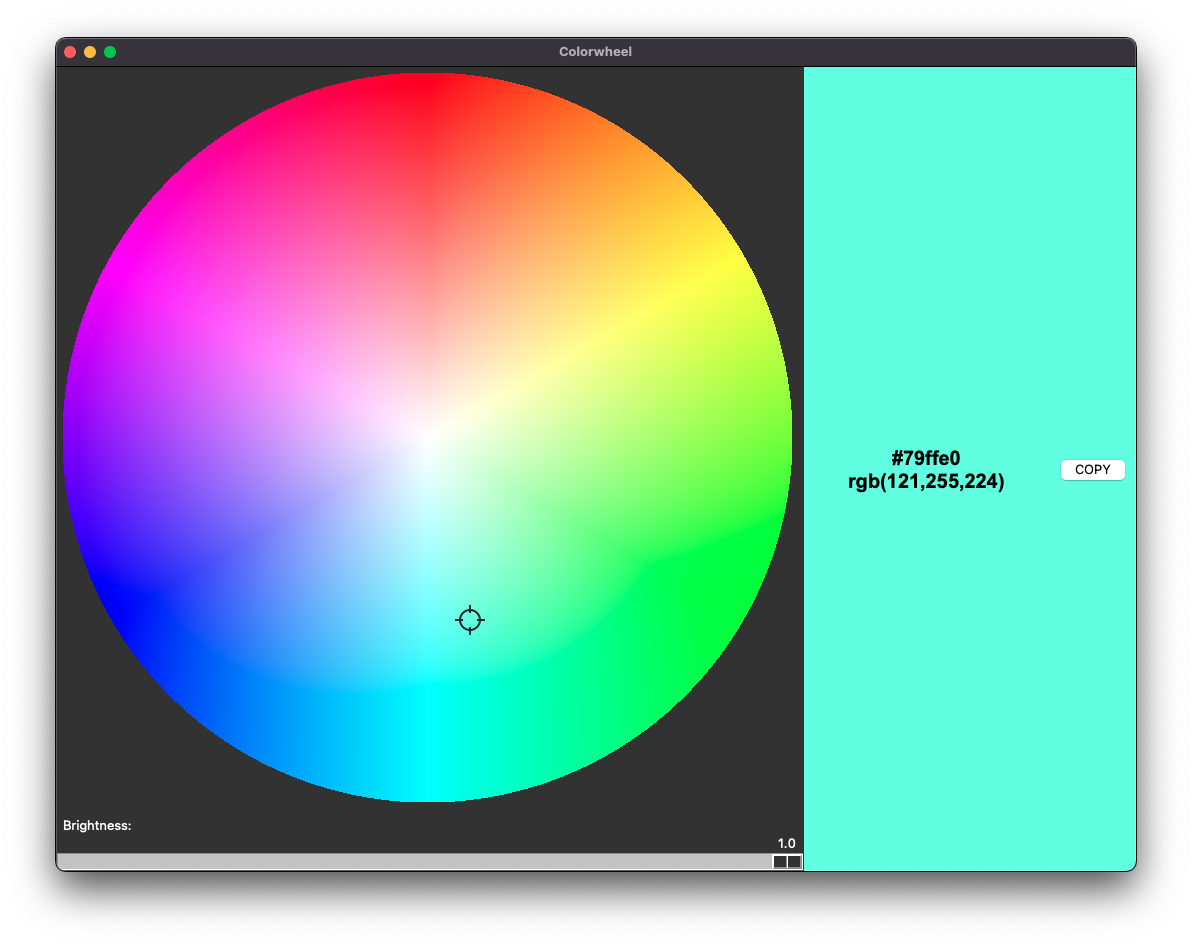
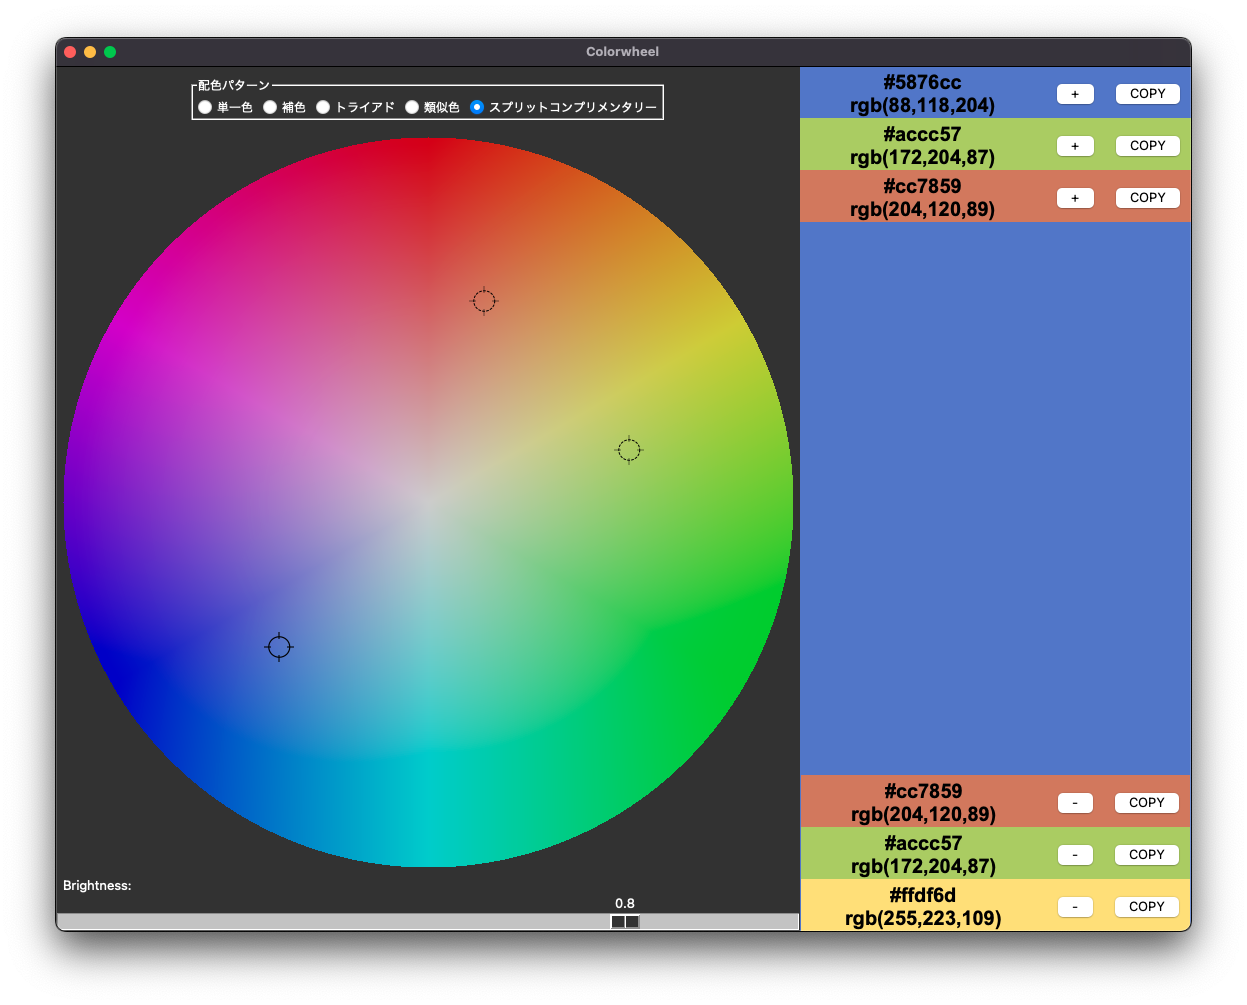
docs: 機能追加にあわせて、スクリーンショットと使い方を更新

diff --git a/README.ja.md b/README.ja.md
@@ -10,7 +10,20 @@
 poetry run python3 color_wheel.py
 ~~~
 
-照準型のカーソルをドラッグすると該当箇所の色情報を右側の領域に表示します。
+- 照準型のカーソルをドラッグまたはダブルクリックすると該当箇所の色情報を右側の領域に表示します。
+
+  <span style="background-color:#ffffff; display: inline-block;">![#ffffff](target.png)</span>
+
+- また、配色パターンのラジオボタンを選択すると、点線のカーソルが追加され、関連する色情報もあわせて右側の領域に表示します。
+
+  <span style="background-color:#ffffff; display: inline-block;">![#ffffff](sub_target.png)</span>
+
+- 画面下部の"Brightness"スライダーを変更するとカラーホイールの輝度を変えれます。
+
+- 気に入った色は、色情報の「＋」ボタンで画面に下側にストックすることができます。
+- ストックされた色は、色情報の「−」ボタンで削除できます。
+
+- 色情報の「COPY」ボタンを押すと、RGB16進数表記の値(例: #000000)をクリップボードにコピーします。
 
 ![](screenshot.png)
 
